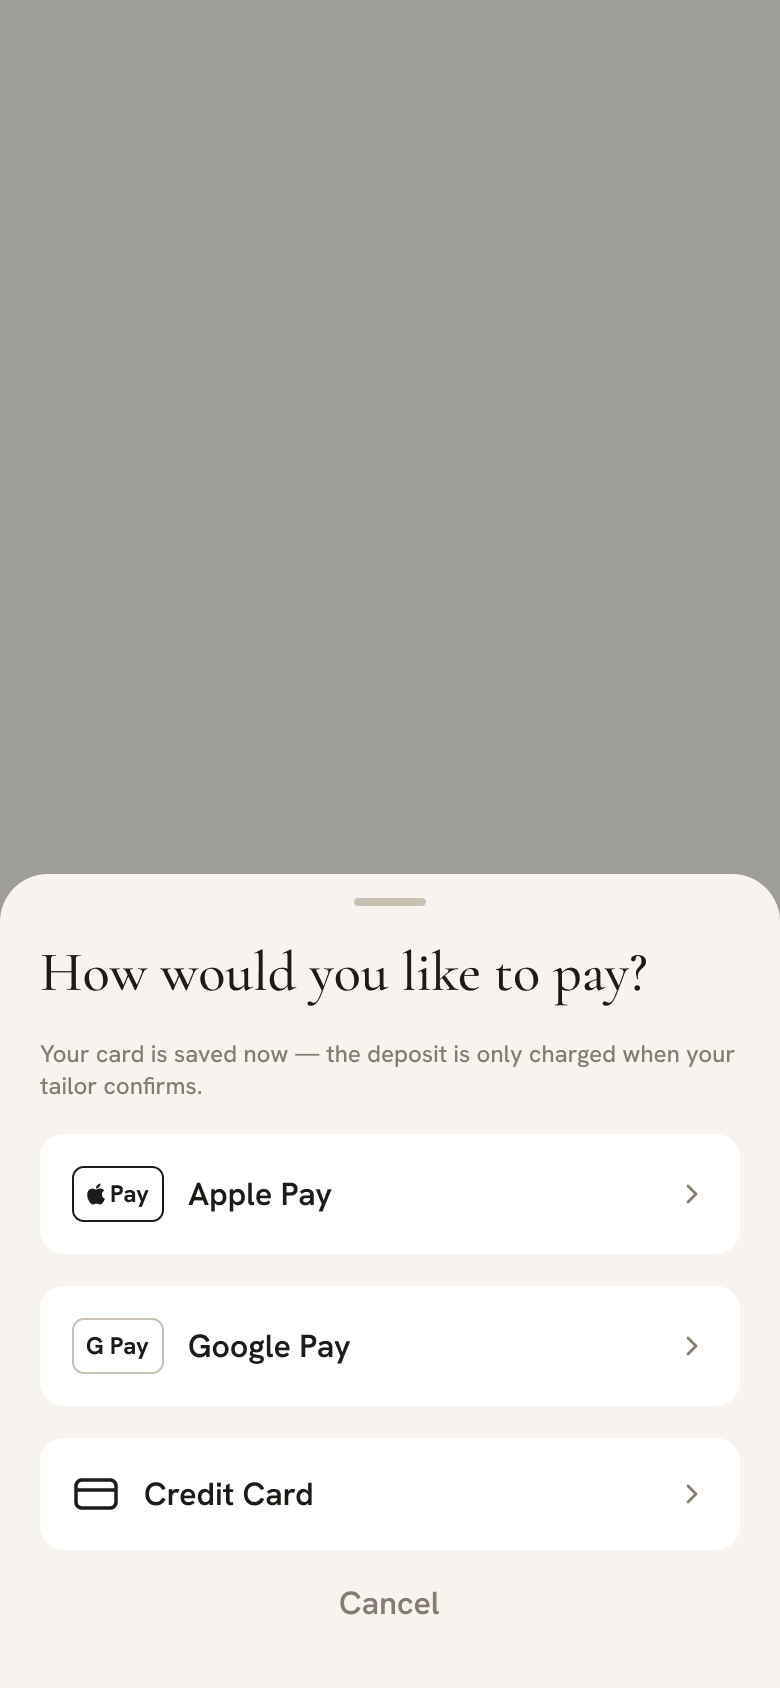
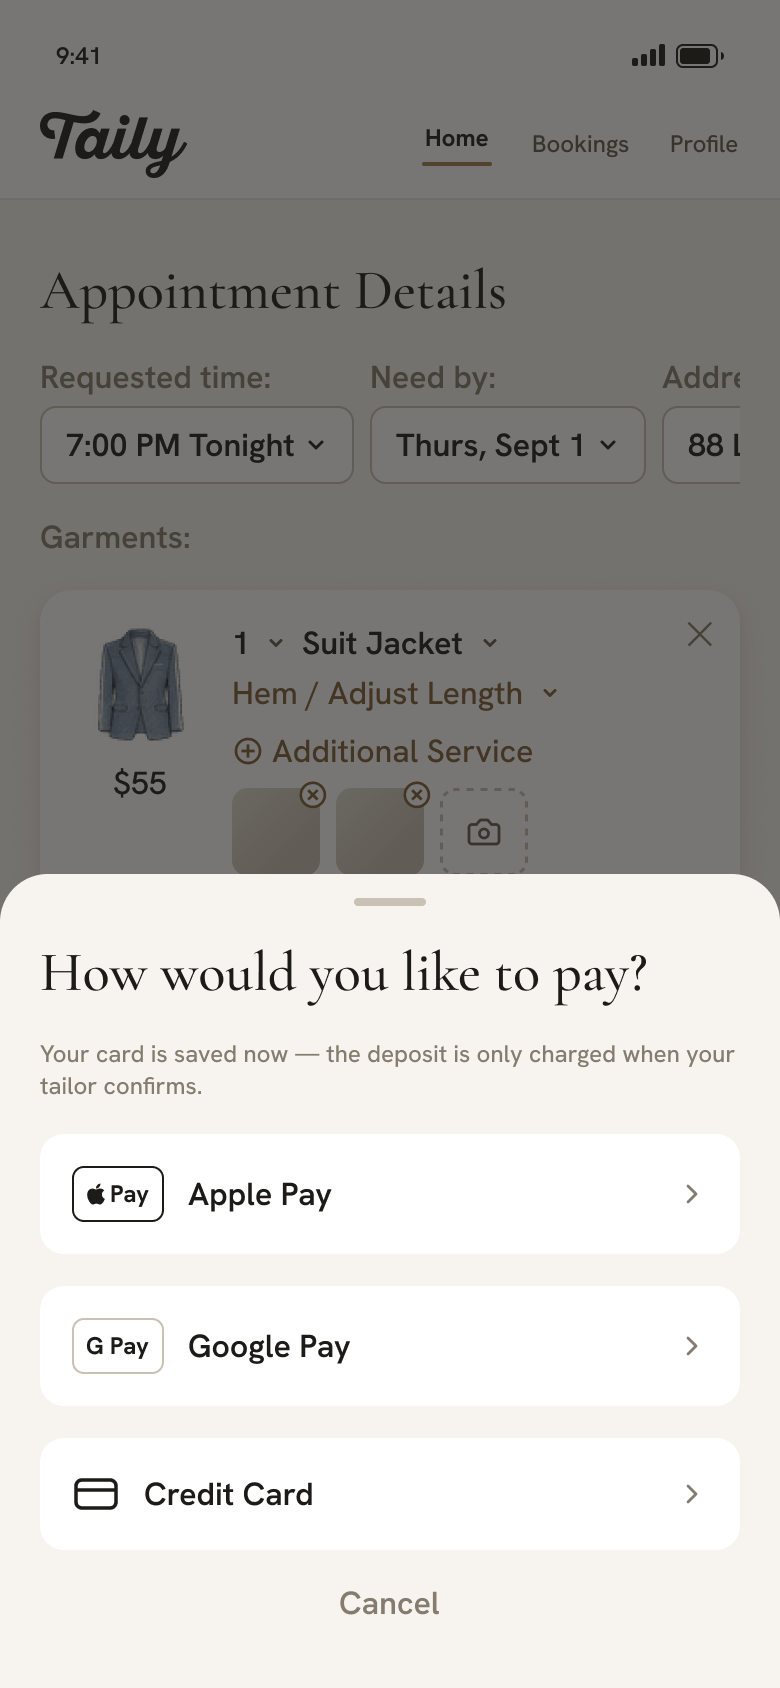
feat: sync to updated Figma — 01a screen, serif headers, sheet backdrops
- 01a - Home_Selected (532:940) registered + ref'd: selected tiles show
  the qty badge + minus cluster (left 64 / top -9 per the frame), the
  minus now decrements (unselects at 0), and "Tap to select more items"
  appears between the grid and the CTA. Diff 0.57%.
- Upcoming header (01/01a) and the 02a sheet title went Cormorant
  SemiBold 20/24 — literal 20px in Figma, off the type scale; tokenised
  as --size-20 (flagged in CLAUDE.md) behind .t-section/.sheet__title.
  01-home 0.56%, 02a 0.50%.
- 02a/04a/04b now draw the 02 screen dimmed behind the scrim (exported
  view02 in .sheet-backdrop) per the updated frames, replacing the flat
  backdrop; 02a's picker (358@y490) and 04b's sheet (286@y559)
  reproduce their frames' 4px/1px bottom overflow. 04a 0.93%, 04b 0.98%.
- refs re-exported for the five frames Figma changed.

diff --git a/js/screens/01-home.js b/js/screens/01-home.js
@@ -40,9 +40,10 @@ export function apptActions(a) {
   return map[a.status] ?? [];
 }
 
-function renderScreen(s) {
+export function view01(s) {
   const sel = s.ui?.homeSelection ?? {};
   const a = s.upcoming[0];
+  const anySelected = Object.values(sel).some((q) => q > 0);
 
   const tiles = TILE_ORDER.map((t) =>
     garmentTile(t, { qty: sel[t] ?? 0, attrs: `data-tile="${t}"` })).join('');
@@ -65,21 +66,28 @@ function renderScreen(s) {
     <p class="t-body c-ink"><span class="emoji">📍</span> 88 Leonard St, New York, NY</p>
   </div>
   <div class="tile-grid">${tiles}</div>
+  ${anySelected ? '<p class="t-body c-ink tap-more">Tap to select more items</p>' : ''}
   ${cta('Start Booking', { attrs: 'data-act="start-booking"' })}
   <div class="upcoming-header">
-    <span class="t-body w-600 c-500">Upcoming Appointments</span>
-    <button type="button" class="t-body w-600 c-accent-ink" data-act="view-all">View All</button>
+    <span class="t-section c-500">Upcoming Appointments</span>
+    <button type="button" class="t-section c-accent-ink" data-act="view-all">View All</button>
   </div>
   ${card}
 </div>`;
 }
 
-function wire(root) {
+export function wire01(root) {
   root.querySelectorAll('[data-tile]').forEach((el) => {
-    el.addEventListener('click', () => {
+    el.addEventListener('click', (e) => {
       const t = el.dataset.tile;
       const sel = selection();
-      sel[t] = (sel[t] ?? 0) + 1;
+      // v3: the tile adds one; its "−" removes one (unselects at 0).
+      if (e.target.closest('[data-minus]')) {
+        sel[t] = Math.max(0, (sel[t] ?? 0) - 1);
+        if (sel[t] === 0) delete sel[t];
+      } else {
+        sel[t] = (sel[t] ?? 0) + 1;
+      }
       go('01-home', { replace: true });
     });
   });
@@ -102,4 +110,4 @@ function wire(root) {
   });
 }
 
-register('01-home', renderScreen, wire);
+register('01-home', view01, wire01);

diff --git a/css/components.css b/css/components.css
@@ -328,12 +328,12 @@
   overflow: visible;
 }
 
-/* Quantity badge + minus button, absolutely placed per Figma
-   (badge top -7 / minus overlapping the corner). */
+/* Quantity badge + minus button — 01a (532:946): cluster absolute at
+   left 64 / top -9 on the 108.667 tile. */
 .garment-tile__qty {
   position: absolute;
   top: -9px;
-  right: -6px;
+  left: 64px;
   display: flex;
   align-items: flex-start;
 }
@@ -353,6 +353,7 @@
   box-shadow: 0 2px 6px rgba(26, 23, 18, 0.14);
 }
 .garment-tile__minus { width: 22px; height: 22px; flex-shrink: 0; }
+.garment-tile__minus-hit { display: inline-flex; flex-shrink: 0; }
 
 /* ---------- shared motion accessibility ---------- */
 @media (prefers-reduced-motion: reduce) {
@@ -757,9 +758,20 @@
 }
 .sheet__grabber-row { display: flex; justify-content: center; width: 100%; }
 
-/* 02a's picker sheet: pad 8/20/20 and a 40x4 grabber (04a/04b: 12/20/32, 36x4) */
-.sheet--picker { padding: var(--space-8) var(--space-20) var(--space-20); }
+/* 02a's picker sheet: pad 8/20/20 and a 40x4 grabber (04a/04b: 12/20/32, 36x4).
+   The 358-tall frame overflows 02a's 844 bottom by 4px — reproduce the clip. */
+.sheet--picker { padding: var(--space-8) var(--space-20) var(--space-20); bottom: -4px; }
 .sheet--picker .sheet__grabber { width: 40px; }
+/* Picker title went serif in the Aug 2026 frames: Cormorant SemiBold 20/24
+   (277:2921 — literal 20px, off the scale; see tokens.css --size-20). */
+.sheet--picker .sheet__title {
+  font-family: var(--font-serif);
+  font-size: var(--size-20);
+  line-height: 24px;
+  font-weight: 600;
+  text-align: center;
+  flex: 1 0 0;
+}
 .sheet__grabber {
   width: 36px;
   height: 4px;

diff --git a/js/components.js b/js/components.js
@@ -159,7 +159,7 @@ export function garmentTile(type, { qty = 0, attrs = '' } = {}) {
       ? `<img class="garment-tile__art" src="${GARMENT_ICONS[type]}" alt="">`
       : `<span class="garment-tile__art"></span>`;
   const badge = selected
-    ? `<span class="garment-tile__qty"><span class="garment-tile__badge">${qty}</span>${TILE_MINUS}</span>`
+    ? `<span class="garment-tile__qty"><span class="garment-tile__badge">${qty}</span><span class="garment-tile__minus-hit" data-minus role="button" aria-label="Remove one ${type}">${TILE_MINUS}</span></span>`
     : '';
   return `<button type="button" class="garment-tile${selected ? ' garment-tile--selected' : ''}" ${attrs}>
   ${art}
@@ -337,7 +337,7 @@ export function garmentCard({
 export function sheet(contentHtml, { open = null, header = null, grabber = true, variant = '' } = {}) {
   const hostAttr = open === null ? '' : ` data-open="${open}"`;
   const head = header
-    ? `<div class="sheet__header"><button type="button" class="sheet__cancel" data-act="sheet-cancel">✕</button><span>${header}</span><button type="button" class="sheet__confirm" data-act="sheet-confirm">✓</button></div>`
+    ? `<div class="sheet__header"><button type="button" class="sheet__cancel" data-act="sheet-cancel">✕</button><span class="sheet__title">${header}</span><button type="button" class="sheet__confirm" data-act="sheet-confirm">✓</button></div>`
     : '';
   return `<div class="sheet-host"${hostAttr}>
   <div class="sheet-scrim" data-act="sheet-cancel"></div>

diff --git a/css/screens.css b/css/screens.css
@@ -9,6 +9,8 @@
 [data-s="01-home"] { gap: var(--space-16); }
 .home-heading { display: flex; flex-direction: column; gap: var(--space-8); }
 .upcoming-header { display: flex; align-items: center; justify-content: space-between; }
+/* 01a (532:1055): helper line between grid and CTA once a tile is selected. */
+.tap-more { text-align: center; }
 
 /* 02 - Appointment Details — frame is 931 tall with dead space below
    the CTA bar; Filters frame is fixed 64 with 52px of content. */
@@ -53,6 +55,9 @@
 
 /* 02A - Date & Time sheet — fills the screen; sheet anchors bottom. */
 .screen-sheet { position: absolute; inset: 0; }
+/* The updated sheet frames show 02 dimmed behind the scrim (was a flat
+   backdrop). Clipped to the 844 sheet frame; inert under the scrim. */
+.sheet-backdrop { position: absolute; inset: 0; overflow: hidden; pointer-events: none; }
 
 /* 09 - Bookings — sections at gap 12; frame is 1220 tall. */
 .screen[data-screen="09-bookings"] { min-height: 1212px; }
@@ -73,7 +78,9 @@
   color: var(--neutral-500);
 }
 
-/* 04B - Add Card Sheet */
+/* 04B - Add Card Sheet — the 286-tall sheet sits at y559, overflowing
+   the 844 frame by 1px; reproduce the clip. */
+[data-s="04b-add-card-sheet"] .sheet { bottom: -1px; }
 .card-field {
   display: flex;
   align-items: center;

diff --git a/js/screens/01a-home-selected.js b/js/screens/01a-home-selected.js
@@ -1,0 +1,20 @@
+/* ============================================================
+   01a - Home_Selected — Figma 532:940.
+   01-Home mid-selection: selected tiles carry the ink border, qty
+   badge and minus button; "Tap to select more items" appears between
+   the grid and the CTA. Same view + wiring as 01-home — this module
+   only registers the frame's preset selection (Suit Jacket ×1,
+   Shirt / Blouse ×1) so the diff harness can render it directly.
+   ============================================================ */
+
+import { register } from '../app.js';
+import { state } from '../state.js';
+import { view01, wire01 } from './01-home.js';
+
+function renderScreen(s) {
+  state.ui ??= {};
+  state.ui.homeSelection = { 'Suit Jacket': 1, 'Shirt / Blouse': 1 };
+  return view01(s);
+}
+
+register('01a-home-selected', renderScreen, wire01);

diff --git a/js/screens/04b-add-card-sheet.js b/js/screens/04b-add-card-sheet.js
@@ -6,8 +6,9 @@
 
 import { register, render as go, back } from '../app.js';
 import { sheet, cta, wireSheetA11y } from '../components.js';
-import { requestTailor } from '../state.js';
+import { state, requestTailor } from '../state.js';
 import { ICON_CARD } from '../icons.js';
+import { view02 } from './02-appointment-details.js';
 
 function renderScreen() {
   const content = `<h1 class="t-title c-ink">Add card</h1>
@@ -21,6 +22,7 @@ ${cta('Next', { disabled: true, attrs: 'data-act="next"' })}
 <p class="t-small c-500 sheet__sub">Saved securely — charged only when your tailor confirms the appointment.</p>`;
 
   return `<div class="screen-sheet" data-s="04b-add-card-sheet">
+  <div class="sheet-backdrop" aria-hidden="true">${view02(state)}</div>
   ${sheet(content)}
 </div>`;
 }

diff --git a/js/app.js b/js/app.js
@@ -11,7 +11,7 @@ import { state } from './state.js';
    module body (imports hoist), hitting the `screens` map in its TDZ.
    The list grows as Phase 4 lands each screen. */
 const SCREEN_MODULES = [
-  '01-home', '02-appointment-details', '02a-date-time-sheet', '09-bookings',
+  '01-home', '01a-home-selected', '02-appointment-details', '02a-date-time-sheet', '09-bookings',
   '04a-payment-sheet', '04b-add-card-sheet', '04c-appointment-confirmed', '04d-appointment-complete',
   '03-finding-tailor', '05-appointment-reminder', 'm1-message-tailor', '06-order-status',
   '06a-review-approve', '07-items-ready', '07a-pickup-window', '07b-delivery-options', '08-journey-complete',

diff --git a/js/screens/04a-payment-sheet.js b/js/screens/04a-payment-sheet.js
@@ -7,6 +7,7 @@
 import { register, render as go, back } from '../app.js';
 import { sheet, methodRow, wireSheetA11y } from '../components.js';
 import { state, requestTailor } from '../state.js';
+import { view02 } from './02-appointment-details.js';
 
 function renderScreen() {
   const content = `<h1 class="t-title c-ink">How would you like to pay?</h1>
@@ -17,6 +18,7 @@ ${methodRow('Credit Card', 'card')}
 <button type="button" class="sheet__cancel-row" data-act="cancel">Cancel</button>`;
 
   return `<div class="screen-sheet" data-s="04a-payment-sheet">
+  <div class="sheet-backdrop" aria-hidden="true">${view02(state)}</div>
   ${sheet(content)}
 </div>`;
 }

diff --git a/js/screens/02a-date-time-sheet.js b/js/screens/02a-date-time-sheet.js
@@ -8,6 +8,7 @@
 import { register, render as go, back } from '../app.js';
 import { sheet, wheel, cta, wireSheetA11y } from '../components.js';
 import { state, setAppt } from '../state.js';
+import { view02 } from './02-appointment-details.js';
 
 const PICK = { day: 'Thu, Jul 9', time: '9:30 AM' };
 
@@ -20,6 +21,7 @@ function renderScreen() {
   ]) + cta(`Set Time · ${PICK.day} at ${PICK.time}`, { attrs: 'data-act="set-time"' });
 
   return `<div class="screen-sheet" data-s="02a-date-time-sheet">
+  <div class="sheet-backdrop" aria-hidden="true">${view02(state)}</div>
   ${sheet(content, { header: 'Date &amp; Time', variant: 'picker' })}
 </div>`;
 }

diff --git a/css/base.css b/css/base.css
@@ -219,6 +219,19 @@ a {
    explicit 110% line-height instead of AUTO -> 30.8px. */
 .t-title--tight { line-height: 30.8px; }
 
+/* Serif section header — "Upcoming Header" on 01/01a (532:958):
+   Cormorant SemiBold, literal 20px in Figma (OFF the type scale, no
+   size/20 variable exists — kept verbatim like the 14px chat bubble).
+   AUTO line-height ≈1.21 -> 24px. */
+.t-section {
+  font-family: var(--font-serif);
+  font-size: var(--size-20);
+  line-height: 24px;
+  font-weight: 600;
+  letter-spacing: 0;
+  margin: 0;
+}
+
 .t-body {
   font-family: var(--font-sans);
   font-size: var(--size-16);

diff --git a/js/screens/02-appointment-details.js b/js/screens/02-appointment-details.js
@@ -25,7 +25,9 @@ function priceFor(g) {
   return `$${amount}`;
 }
 
-function renderScreen(s) {
+/* Exported: 02a/04a/04b draw this screen dimmed behind their scrim
+   (the updated frames show it in place of the old flat backdrop). */
+export function view02(s) {
   ensureGarments();
   const { appt, contact } = s;
   const totals = bookingLines(null);
@@ -73,4 +75,4 @@ function wire(root) {
   });
 }
 
-register('02-appointment-details', renderScreen, wire);
+register('02-appointment-details', view02, wire);

diff --git a/css/tokens.css b/css/tokens.css
@@ -64,6 +64,11 @@
   --size-10: 10px;
   --size-12: 12px;
   --size-16: 16px;
+  /* NOT a Figma variable — the Aug 2026 serif headers (Upcoming Header
+     532:958, Date & Time title 277:2921) carry literal 20px, off the
+     type scale. Raised as an inconsistency; tokenised here so no
+     literal size leaks outside tokens.css. */
+  --size-20: 20px;
   --size-24: 24px;
   --size-28: 28px;
   --size-32: 32px;
